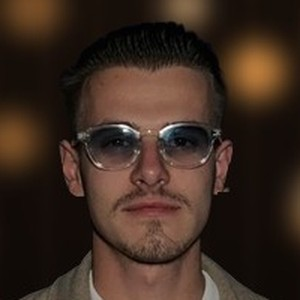
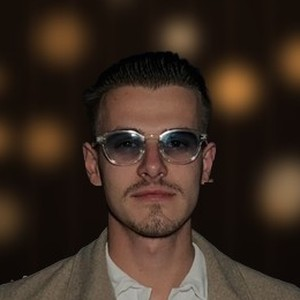
Profilbilder am Tisch: Gesichter komplett im Kreis (Manu, Chris, Jan, Kevin, Domi C)
Claude-Session: https://claude.ai/code/session_01AgPGxrhmogBa7YXoy85Ab2

diff --git a/tafel/index.html b/tafel/index.html
@@ -831,7 +831,7 @@ const CARDS={"tim":[CA("tim.jpg"),CA("tim-2.jpg")],"niklas":C_NIK,"niki":C_NIK,"
 /* video that plays with sound when this player's card comes up in the seat draw */
 const VIDS={"nico":"karten/nico.mp4?v=1"};
 const AV={"tim":"tim","niklas":"niklas","niki":"niklas","nico":"nico","manu":"manu","domi m":"magg","magg":"magg","domi c":"domi-c","oli":"oli","olli":"oli","philipp":"philipp","phillip":"philipp","phil":"philipp","jonny":"jonny","jonas":"jonny","johnny":"jonny","benno":"benno","chris":"chris","kevin":"kevin","jan":"jan"};
-function avOf(n){const k=n.toLowerCase(),o=S.avatars&&S.avatars[k];if(o)return o;if(AV[k])return "karten/av/"+AV[k]+".jpg?v=8";const c=cardOf(n);return null;}
+function avOf(n){const k=n.toLowerCase(),o=S.avatars&&S.avatars[k];if(o)return o;if(AV[k])return "karten/av/"+AV[k]+".jpg?v=9";const c=cardOf(n);return null;}
 function avHtml(n,cls){const u=avOf(n);return '<span class="'+(cls||"av")+(u?"":" none")+'">'+(u?'<img src="'+u+'" alt="">':esc((n||"?").trim().charAt(0).toUpperCase()))+'</span>';}
 Object.values(AV).forEach(x=>{const i=new Image();i.src="karten/av/"+x+".jpg";});
 const cardOf=n=>{const c=(S.cards&&S.cards[n.toLowerCase()])||CARDS[n.toLowerCase()]||null;return Array.isArray(c)?c[0]:c;};
